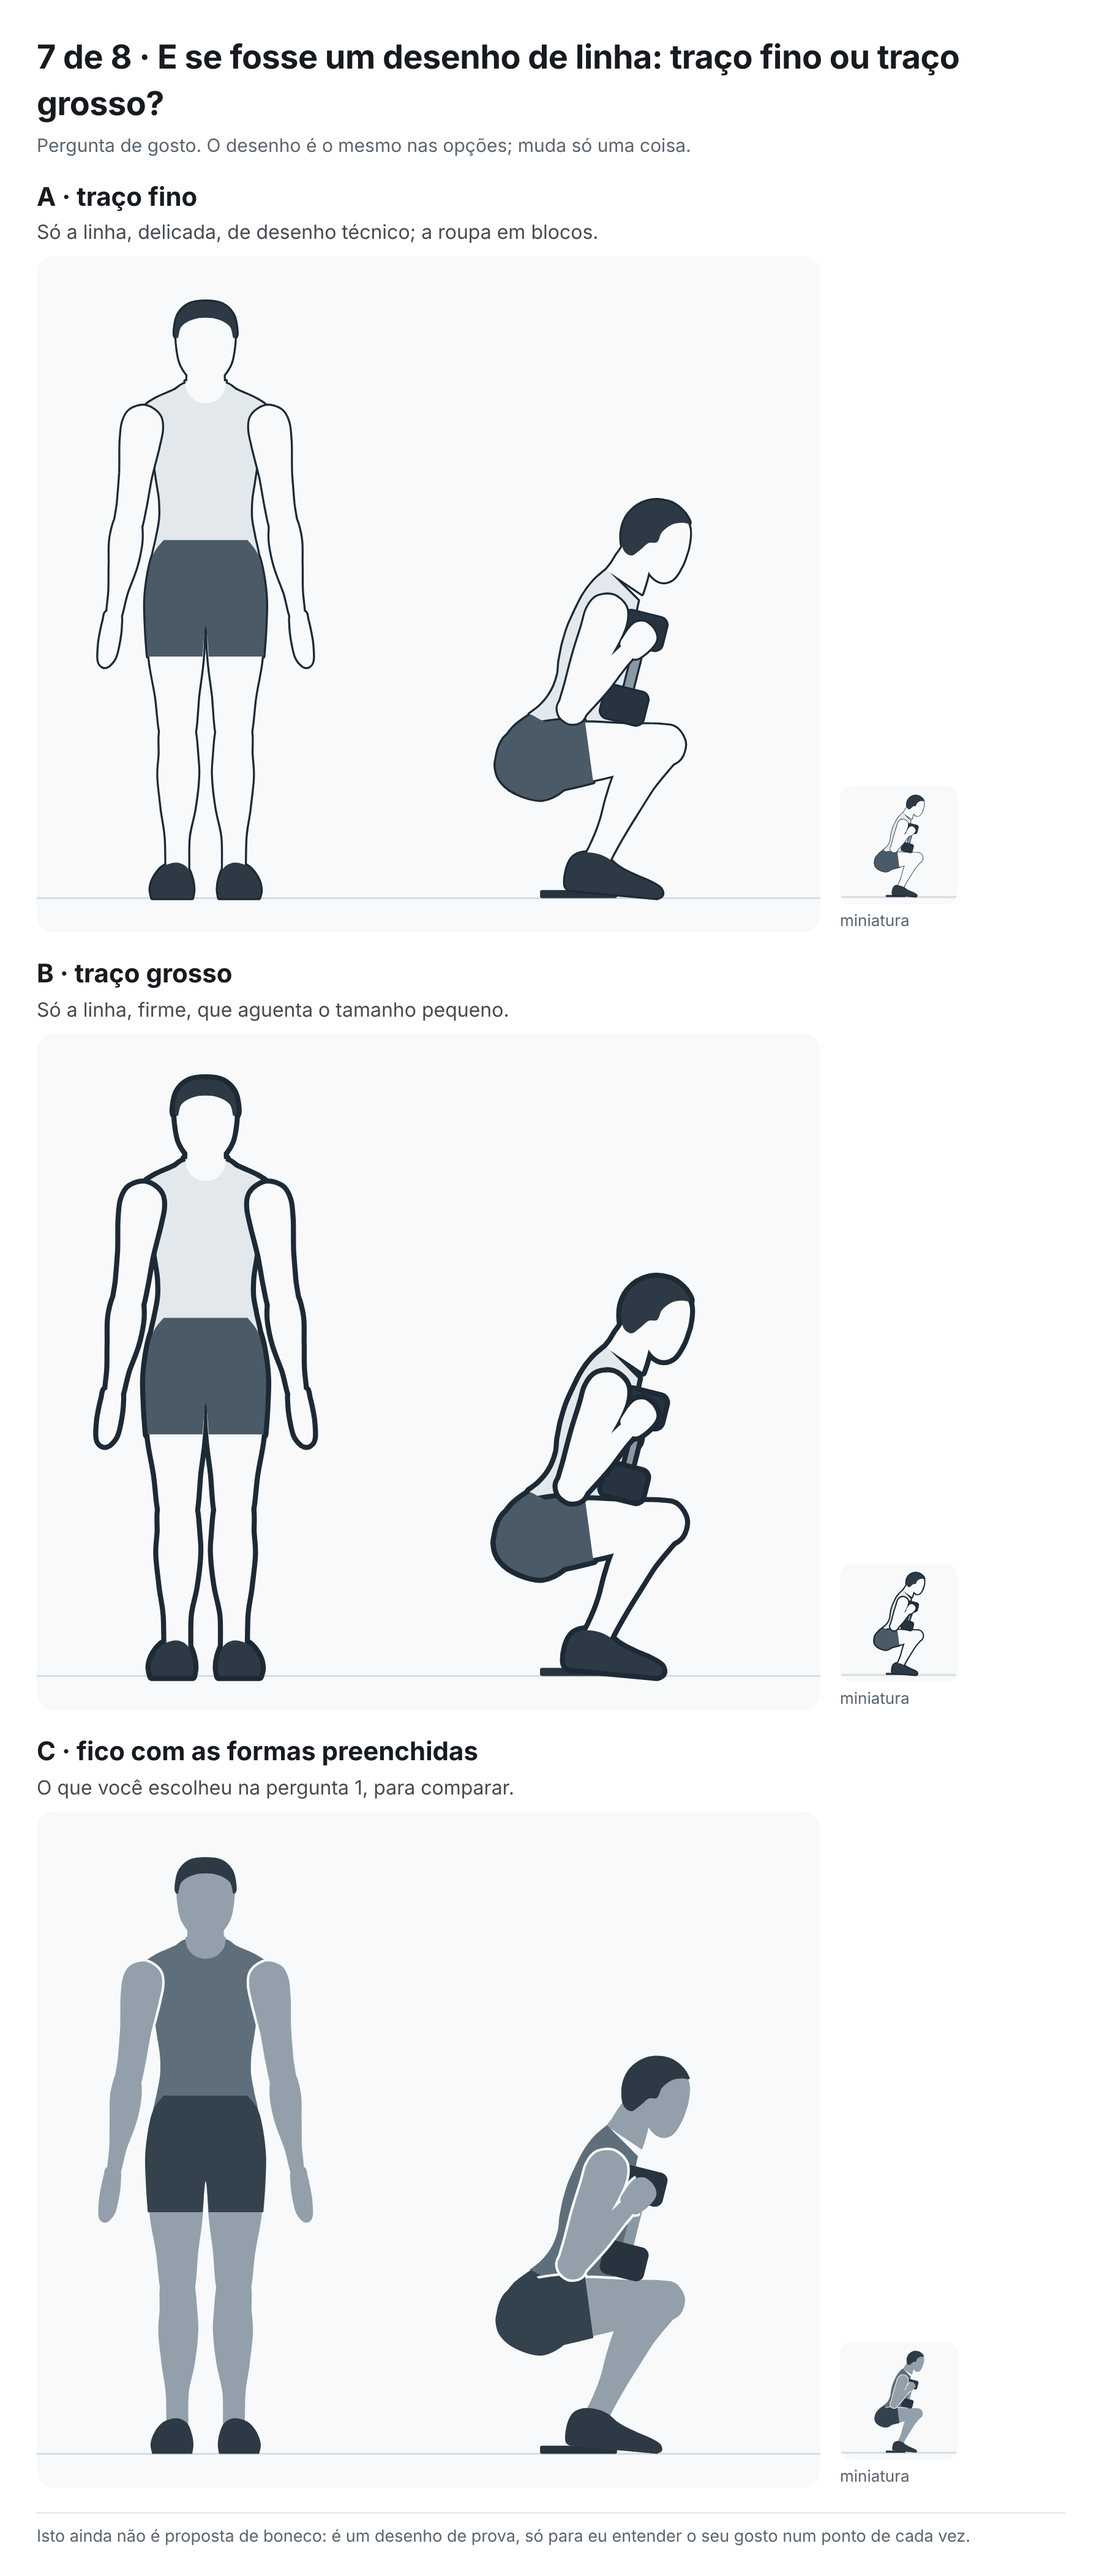
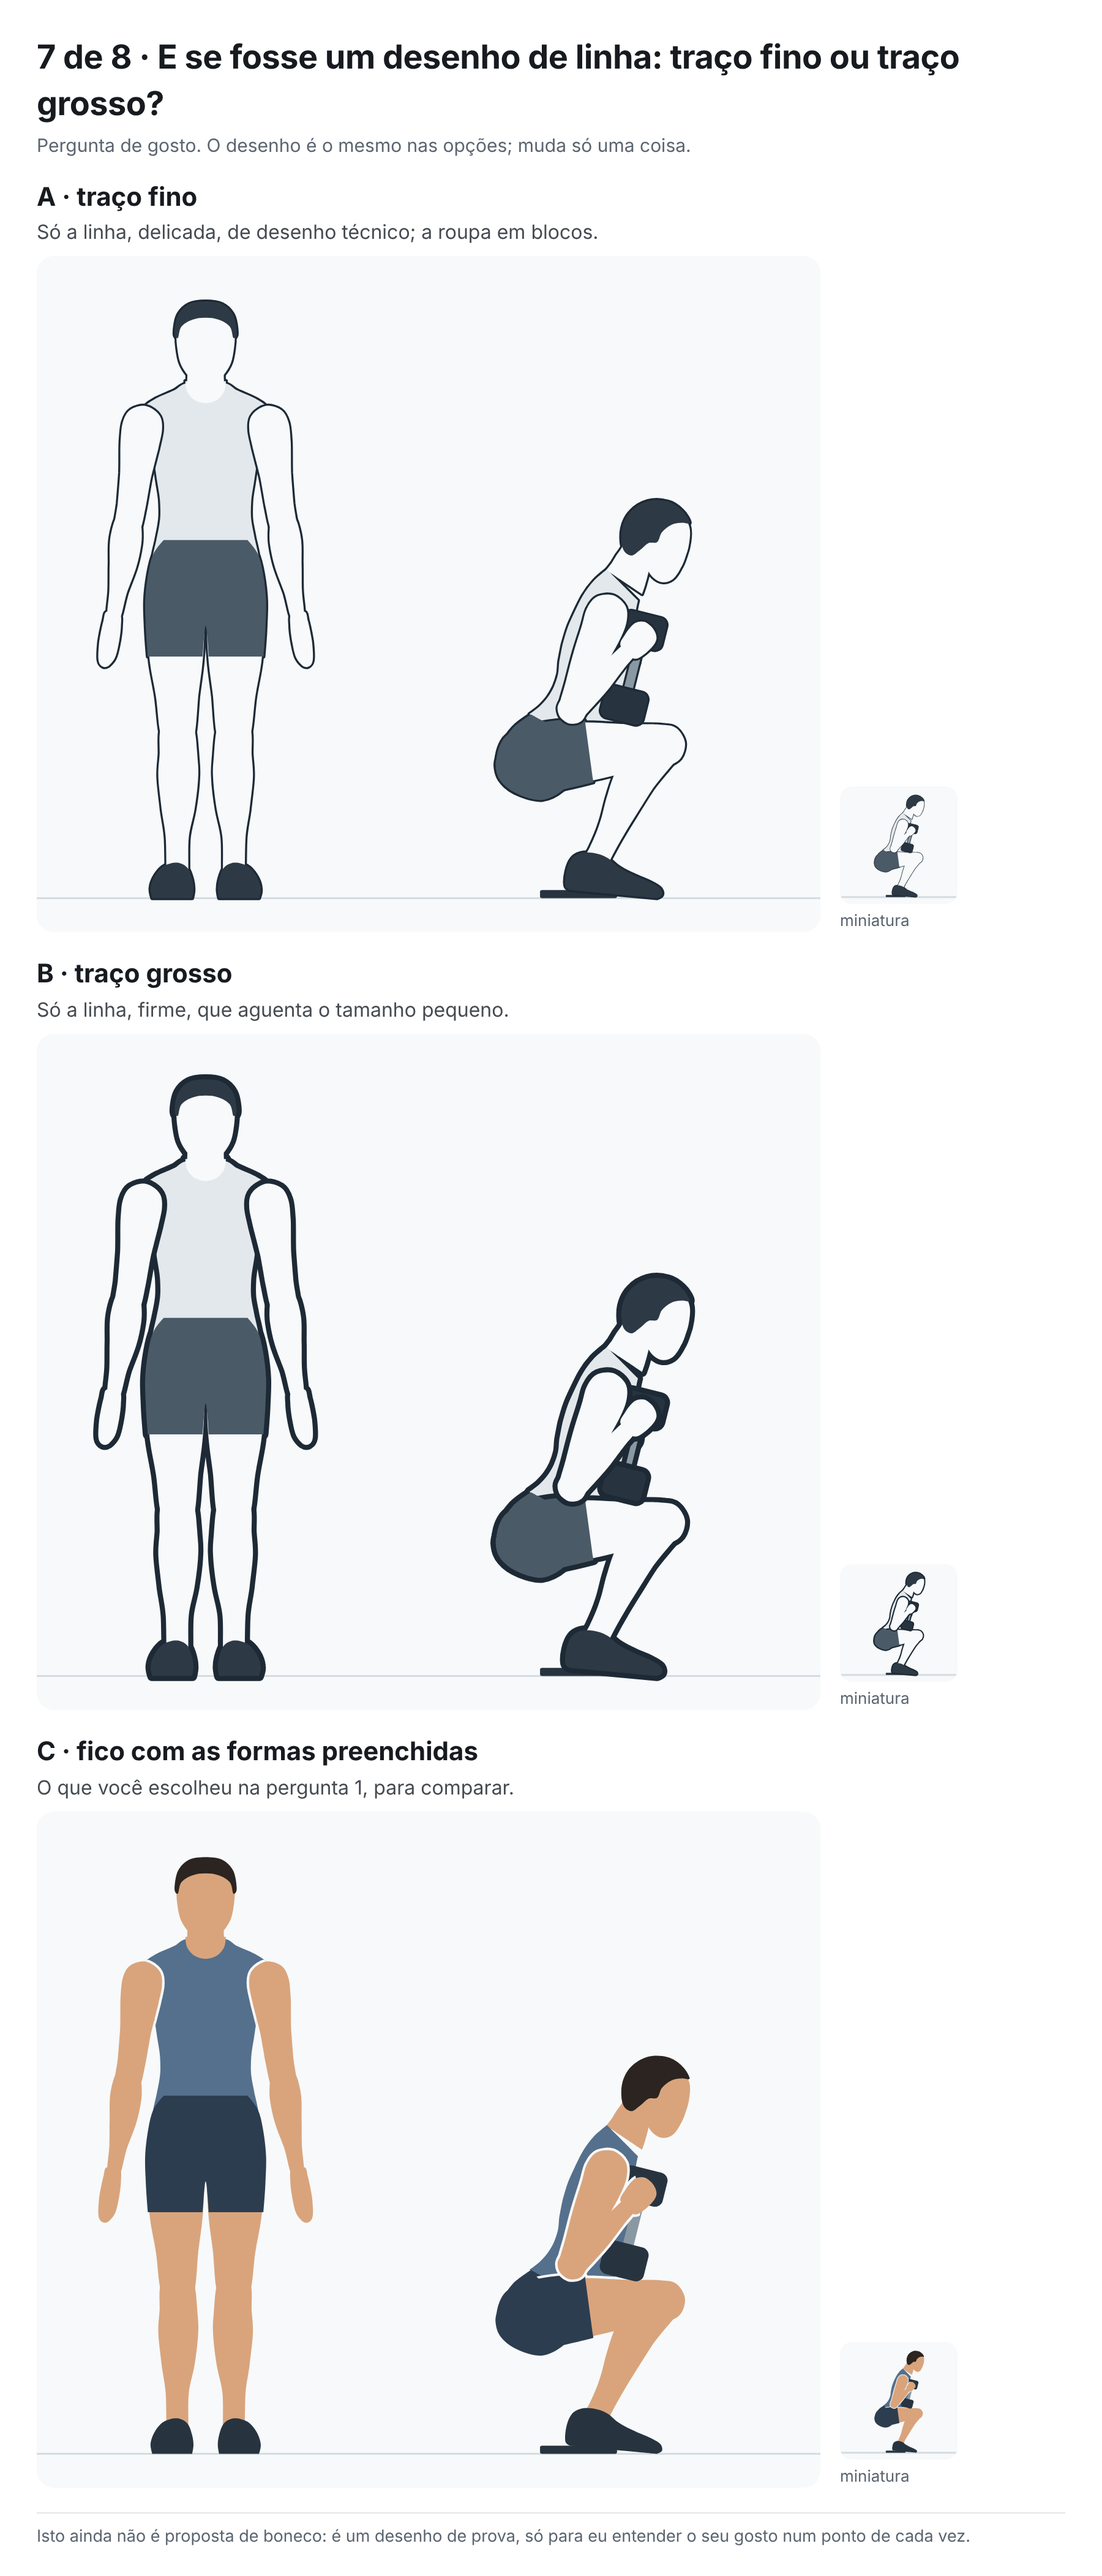
Registra a escolha da cor de pele e regera as pranchas de traço e de músculo
Claude-Session: https://claude.ai/code/session_01YRzts3boRLXw1s3mgPjLS8

Changed region(s): [[0.0933, 0.7164, 0.28, 0.9344], [0.4978, 0.7786, 0.6222, 0.9344], [0.8089, 0.9032, 0.84, 0.9655]]

diff --git a/docs/revisoes/boneco-desenho/gosto.md b/docs/revisoes/boneco-desenho/gosto.md
@@ -40,7 +40,7 @@ Cada pergunta mostra o mesmo "boneco de prova" (um desenho feito só para estas 
 | 3 | Com roupa ou sem roupa? | `gosto/par-3-roupa.png` | **A, com roupa** ("pode ser A", 13/11/2026). Perguntei se o "pode ser" vinha de o desenho de prova não agradar; ele não comentou. |
 | 4 | Chapado ou com volume? | `gosto/par-4-volume.png` | **A, chapado** ("pode ser A", 13/11/2026). |
 | 5 | Proporção real ou levemente estilizada? | `gosto/par-5-proporcao.png` | **A, proporção real** ("pode ser A", 13/11/2026). |
-| 6 | Cinza neutro, cor de pele ou a cor do app? | `gosto/par-6-cor.png` | |
+| 6 | Cinza neutro, cor de pele ou a cor do app? | `gosto/par-6-cor.png` | **B, cor de pele** ("b", 13/11/2026). Foi a primeira resposta sem "pode ser" e a primeira contra a minha opinião (eu tinha dito A, cinza). |
 | 7 | Traço fino ou traço grosso? | `gosto/par-7-traco.png` | |
 | 8 | O músculo no corpo ou num mapa ao lado? | `gosto/par-8-musculo.png` | |
 
